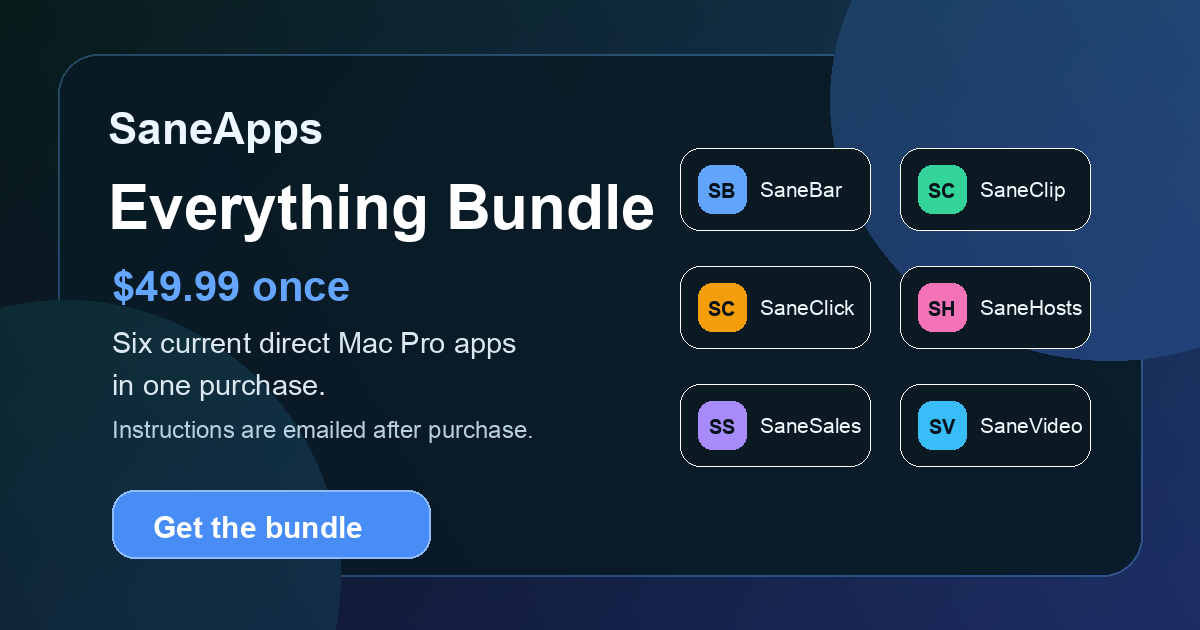
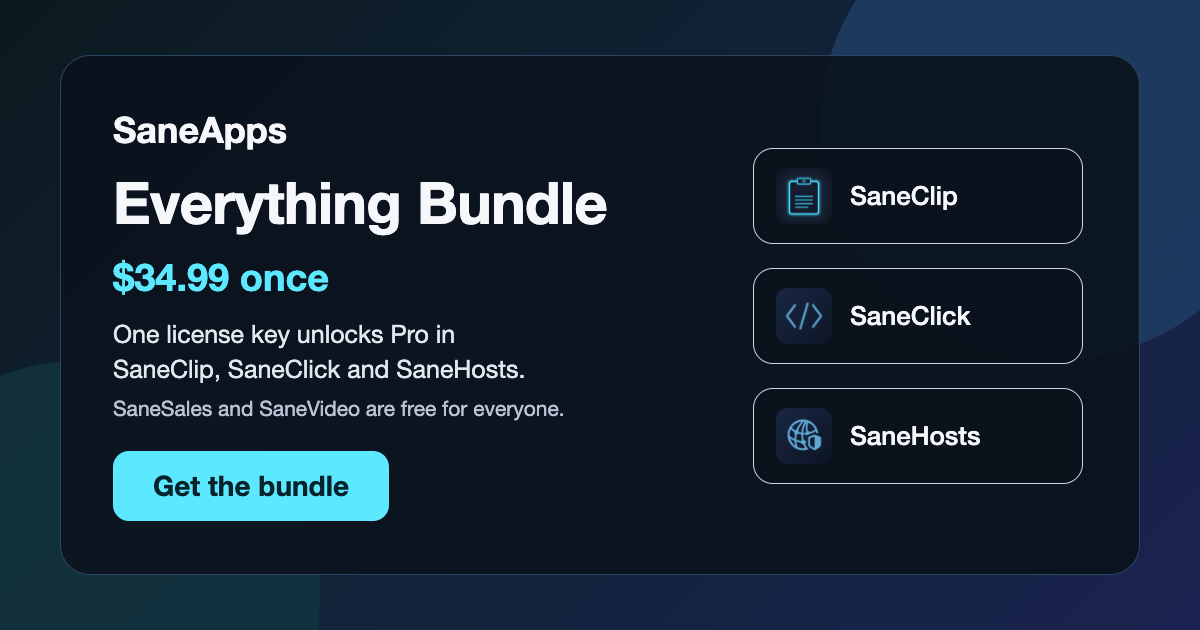
Bundle price: $49.99 to $34.99 (owner-approved; LS charges $34.99)
- bundle.html: meta, og, twitter, JSON-LD offer and visible price
- index.html: hub bundle card price
- llms.txt: bundle line
- bundle-og-image.png: new card ($34.99, SaneClip, SaneClick, SaneHosts;
  SaneSales and SaneVideo free); old card showed $49.99 and six apps incl. SaneBar
- og/twitter image cache key v=20261112-card; alt text says three apps
- Verified: LS API product 1230177 $34.99, variant 1923204 price 3499;
  live checkout shows 3499

Claude-Session: https://claude.ai/code/session_019aVMrQjUKau5SCECpV6C5R

diff --git a/bundle.html b/bundle.html
@@ -4,26 +4,26 @@
     <meta charset="UTF-8">
     <meta name="viewport" content="width=device-width, initial-scale=1.0">
     <title>SaneApps Everything Bundle: SaneClip, SaneClick, SaneHosts</title>
-    <meta name="description" content="One license key unlocks Pro in SaneClip, SaneClick and SaneHosts for Mac. $49.99 once, no subscription. SaneSales and SaneVideo are free for everyone.">
+    <meta name="description" content="One license key unlocks Pro in SaneClip, SaneClick and SaneHosts for Mac. $34.99 once, no subscription. SaneSales and SaneVideo are free for everyone.">
     <meta name="robots" content="index, follow">
     <meta name="theme-color" content="#08080c">
     <link rel="canonical" href="https://saneapps.com/bundle">
   <meta property="og:type" content="website">
   <meta property="og:title" content="SaneApps Everything Bundle: SaneClip, SaneClick, SaneHosts">
-  <meta property="og:description" content="One license key unlocks Pro in SaneClip, SaneClick and SaneHosts for Mac. $49.99 once, no subscription. SaneSales and SaneVideo are free for everyone.">
+  <meta property="og:description" content="One license key unlocks Pro in SaneClip, SaneClick and SaneHosts for Mac. $34.99 once, no subscription. SaneSales and SaneVideo are free for everyone.">
   <meta property="og:url" content="https://saneapps.com/bundle">
-  <meta property="og:image" content="https://saneapps.com/bundle-og-image.png?v=20260827-card">
-  <meta property="og:image:secure_url" content="https://saneapps.com/bundle-og-image.png?v=20260827-card">
+  <meta property="og:image" content="https://saneapps.com/bundle-og-image.png?v=20261112-card">
+  <meta property="og:image:secure_url" content="https://saneapps.com/bundle-og-image.png?v=20261112-card">
   <meta property="og:image:type" content="image/png">
   <meta property="og:image:width" content="1200">
   <meta property="og:image:height" content="630">
-  <meta property="og:image:alt" content="SaneApps Everything Bundle preview card with five Mac apps">
+  <meta property="og:image:alt" content="SaneApps Everything Bundle preview card with three Mac apps">
   <meta name="twitter:card" content="summary_large_image">
   <meta name="twitter:url" content="https://saneapps.com/bundle">
   <meta name="twitter:title" content="SaneApps Everything Bundle: SaneClip, SaneClick, SaneHosts">
-  <meta name="twitter:description" content="One license key unlocks Pro in SaneClip, SaneClick and SaneHosts for Mac. $49.99 once, no subscription. SaneSales and SaneVideo are free for everyone.">
-  <meta name="twitter:image" content="https://saneapps.com/bundle-og-image.png?v=20260827-card">
-  <meta name="twitter:image:alt" content="SaneApps Everything Bundle preview card with five Mac apps">
+  <meta name="twitter:description" content="One license key unlocks Pro in SaneClip, SaneClick and SaneHosts for Mac. $34.99 once, no subscription. SaneSales and SaneVideo are free for everyone.">
+  <meta name="twitter:image" content="https://saneapps.com/bundle-og-image.png?v=20261112-card">
+  <meta name="twitter:image:alt" content="SaneApps Everything Bundle preview card with three Mac apps">
     <link rel="icon" type="image/png" sizes="32x32" href="favicon.png">
     <link rel="icon" type="image/x-icon" href="favicon.ico">
     <link rel="apple-touch-icon" sizes="180x180" href="apple-touch-icon.png">
@@ -38,9 +38,9 @@
     "@context": "https://schema.org",
     "@type": "Product",
     "name": "SaneApps Everything Bundle",
-    "description": "One license key unlocks Pro in SaneClip, SaneClick and SaneHosts for Mac. $49.99 once, no subscription. SaneSales and SaneVideo are free for everyone.",
+    "description": "One license key unlocks Pro in SaneClip, SaneClick and SaneHosts for Mac. $34.99 once, no subscription. SaneSales and SaneVideo are free for everyone.",
     "url": "https://saneapps.com/bundle",
-    "image": "https://saneapps.com/bundle-og-image.png?v=20260827-card",
+    "image": "https://saneapps.com/bundle-og-image.png?v=20261112-card",
     "brand": {
       "@type": "Organization",
       "name": "SaneApps",
@@ -48,7 +48,7 @@
     },
     "offers": {
       "@type": "Offer",
-      "price": "49.99",
+      "price": "34.99",
       "priceCurrency": "USD",
       "availability": "https://schema.org/InStock",
       "url": "https://saneapps.com/bundle"
@@ -225,7 +225,7 @@
                     <p class="lead">One license key for every paid SaneApps Mac app: private clipboard history, Finder actions, and ad blocking with a Touch ID lock.</p>
                 </div>
                 <div class="price-panel">
-                    <div class="price">$49.99</div>
+                    <div class="price">$34.99</div>
                     <p class="price-note">One-time purchase. No subscription. Unlocks Pro in SaneClip, SaneClick and SaneHosts.</p>
                     <a class="button" href="https://go.saneapps.com/buy/bundle?ref=bundle-page">Buy the bundle</a>
                 </div>

diff --git a/outputs/bundle-card-20261112/bundle-card.html b/outputs/bundle-card-20261112/bundle-card.html
@@ -1,0 +1,40 @@
+<!doctype html>
+<html><head><meta charset="utf-8">
+<style>
+*{margin:0;padding:0;box-sizing:border-box}
+html,body{width:1200px;height:630px;overflow:hidden}
+body{font-family:-apple-system,"Helvetica Neue",Arial,sans-serif;color:#f5f7fb;
+background:linear-gradient(135deg,#0b1a1f 0%,#13233a 55%,#1a2350 100%);position:relative}
+.blob1{position:absolute;right:-90px;top:-110px;width:470px;height:470px;border-radius:50%;background:#1f3d63;opacity:.85}
+.blob2{position:absolute;left:-150px;bottom:-200px;width:470px;height:470px;border-radius:50%;background:#123540;opacity:.8}
+.card{position:absolute;left:60px;top:55px;width:1080px;height:520px;border-radius:30px;
+background:rgba(10,18,28,.88);border:1.5px solid #2a4560}
+.left{position:absolute;left:52px;top:52px;width:560px}
+.brand{font-size:36px;font-weight:600}
+h1{font-size:58px;font-weight:700;margin-top:14px;letter-spacing:-.5px}
+.price{font-size:38px;font-weight:600;color:#5CE8FF;margin-top:16px}
+.desc{font-size:25px;line-height:1.4;color:#e1e6ef;margin-top:16px}
+.note{font-size:21px;color:#b9c3d3;margin-top:10px}
+.btn{display:inline-block;margin-top:30px;padding:18px 40px;border-radius:16px;background:#5CE8FF;color:#06222a;font-size:28px;font-weight:700}
+.apps{position:absolute;right:56px;top:92px;width:330px}
+.app{display:flex;align-items:center;gap:18px;height:96px;padding:0 22px;margin-bottom:24px;border-radius:20px;
+border:1.5px solid #cfd8e3;background:rgba(10,18,28,.92);font-size:26px;font-weight:500}
+.app img{width:56px;height:56px;border-radius:12px}
+</style></head><body>
+<div class="blob1"></div><div class="blob2"></div>
+<div class="card">
+  <div class="left">
+    <div class="brand">SaneApps</div>
+    <h1>Everything Bundle</h1>
+    <div class="price">$34.99 once</div>
+    <div class="desc">One license key unlocks Pro in<br>SaneClip, SaneClick and SaneHosts.</div>
+    <div class="note">SaneSales and SaneVideo are free for everyone.</div>
+    <div class="btn">Get the bundle</div>
+  </div>
+  <div class="apps">
+    <div class="app"><img src="../../icons/saneclip-icon.png" alt="">SaneClip</div>
+    <div class="app"><img src="../../icons/saneclick-icon.png" alt="">SaneClick</div>
+    <div class="app"><img src="../../icons/sanehosts-icon.png" alt="">SaneHosts</div>
+  </div>
+</div>
+</body></html>

diff --git a/index.html b/index.html
@@ -1521,7 +1521,7 @@
                         </div>
                     </div>
                     <div>
-                        <div class="bundle-price">$49.99</div>
+                        <div class="bundle-price">$34.99</div>
                         <p>One-time purchase. No subscription.</p>
                     </div>
                 </div>
